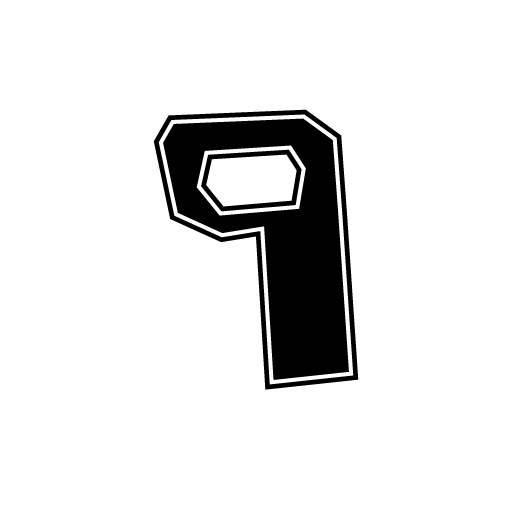
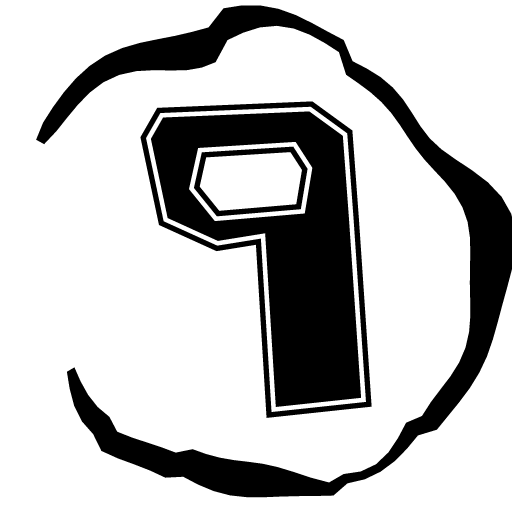
Drop ENGAGÉS and keep a black brush circle around the 9.
LES sits above an angular jersey number. A white-on-black variant is saved beside it.

Changed region(s): [[0.0625, 0.0, 1.0, 1.0], [0.25, 0.1875, 0.75, 0.8125]]

diff --git a/docs/architecture.md b/docs/architecture.md
@@ -71,7 +71,7 @@ Le CORS n'est pas ouvert.
 
 ## Écarts qui restent
 
-- Le logo est noir et blanc : LES ENGAGÉS (lettres de même taille) au-dessus d'un 9 anguleux de maillot, dans un cercle blanc ouvert, au trait irrégulier. Les PNG mobiles reprennent le symbole. L'identité, dont le mot ENGAGÉS, reste à confirmer.
+- Le logo est noir et blanc : LES au-dessus d'un 9 anguleux de maillot, dans un cercle noir ouvert au trait irrégulier. Une variante blanche sur noir est dans `logo-negatif`. Les PNG mobiles reprennent le symbole. L'identité reste à confirmer.
 - gazetlocal est un dépôt privé. Les9 est public : la même absence de secret, avec cette contrainte en plus.
 - Pas de licence, comme le squelette de référence.
 - Pas d'identifiant de paquet iOS ou Android. Le squelette de référence n'en fixe pas non plus. Aucune signature.
